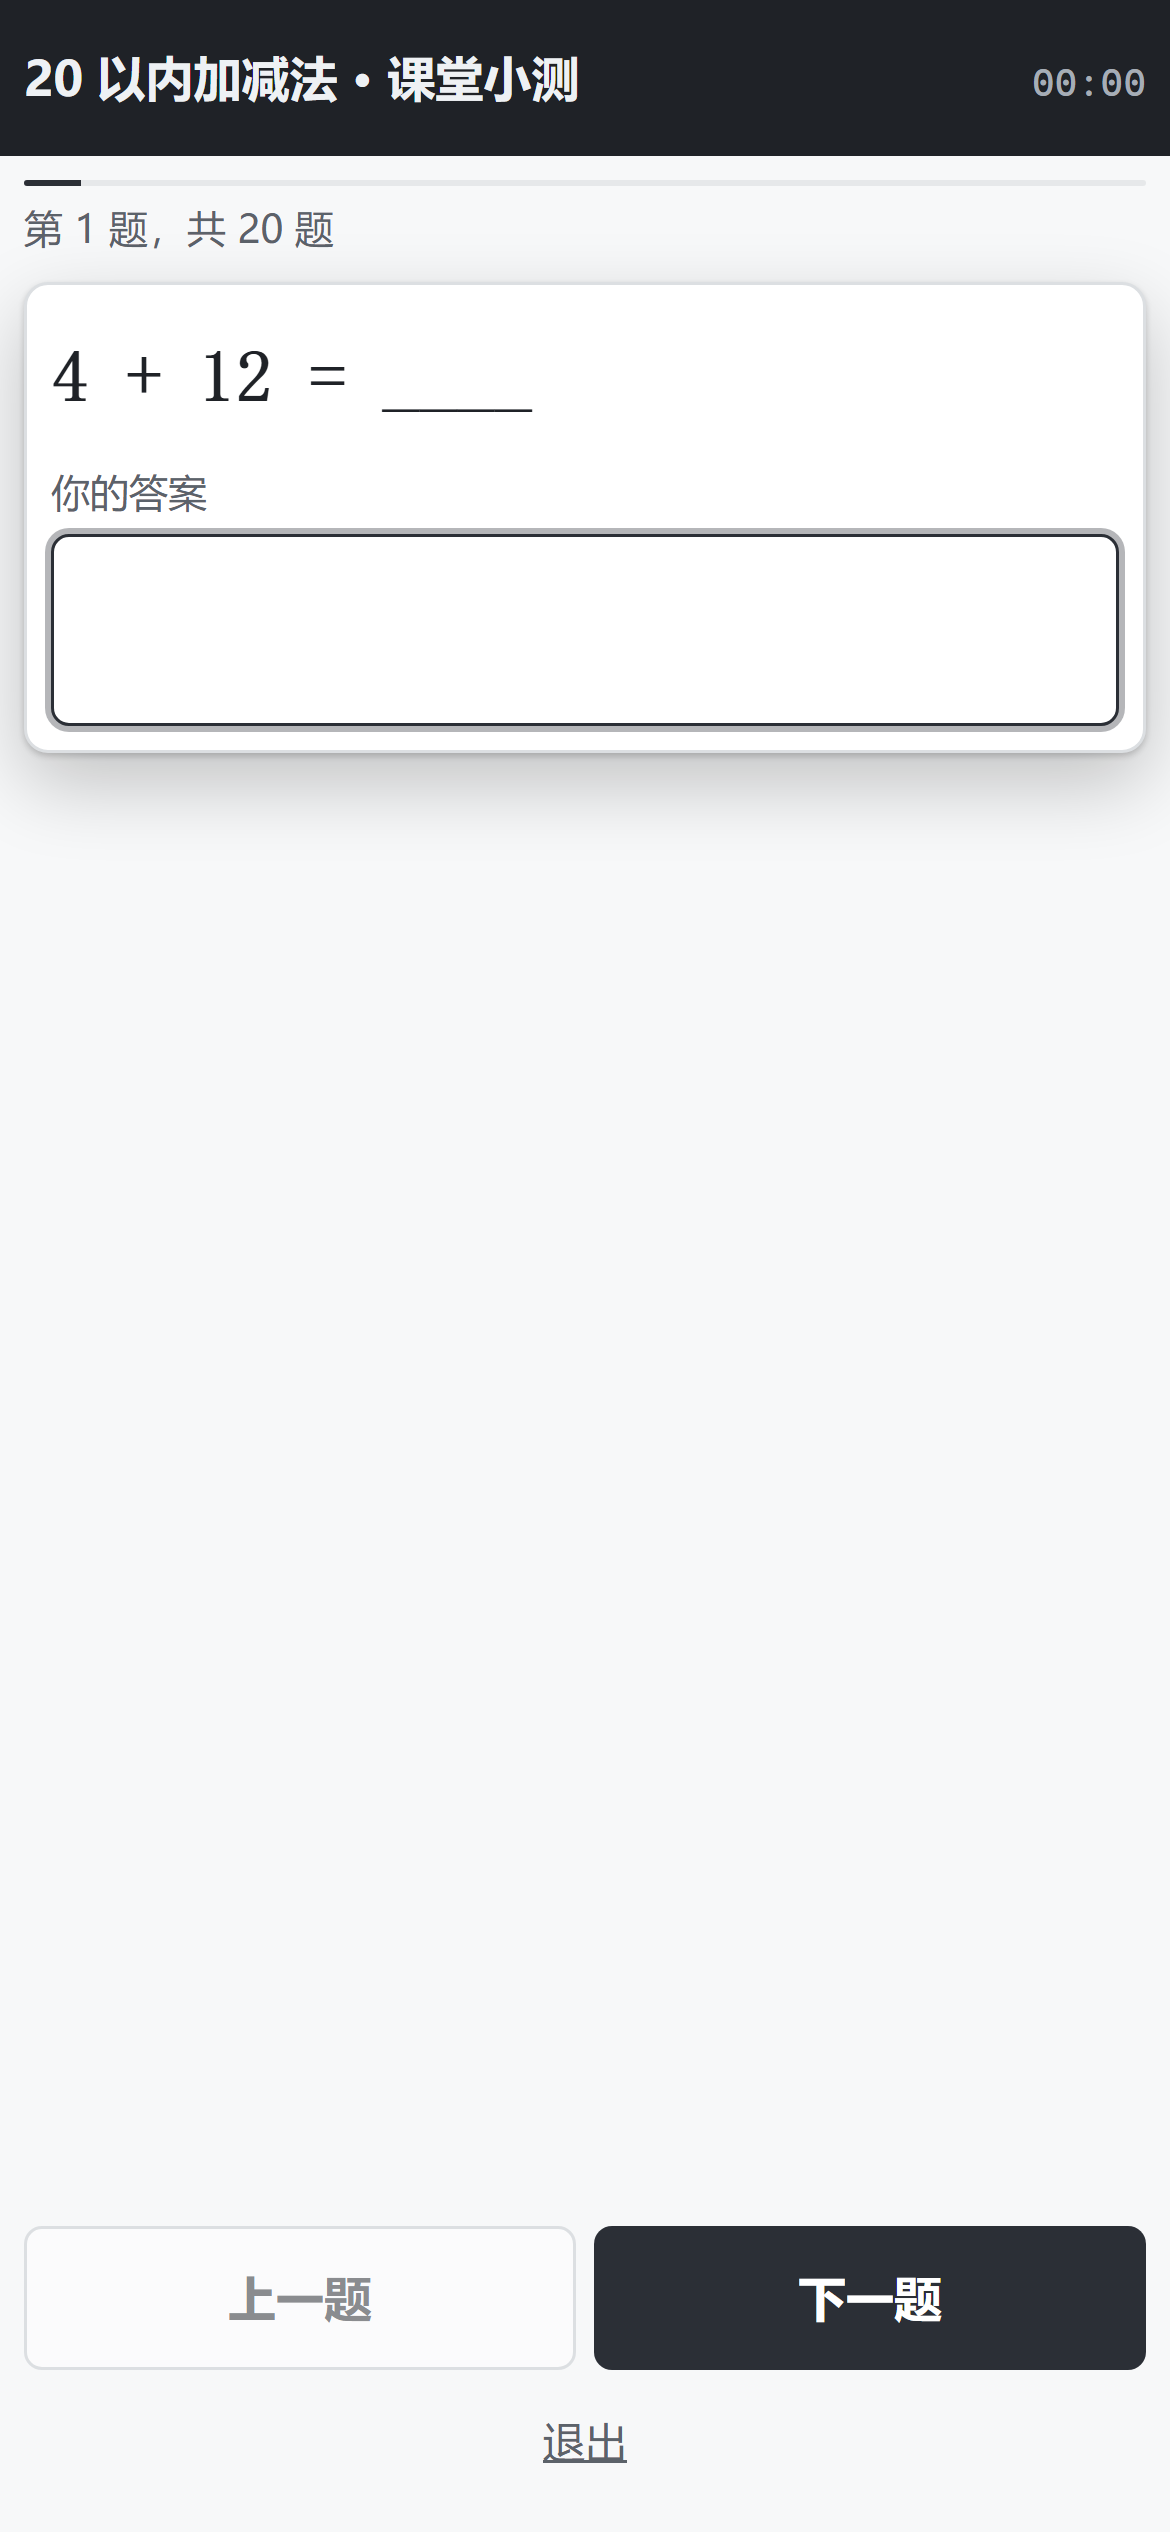
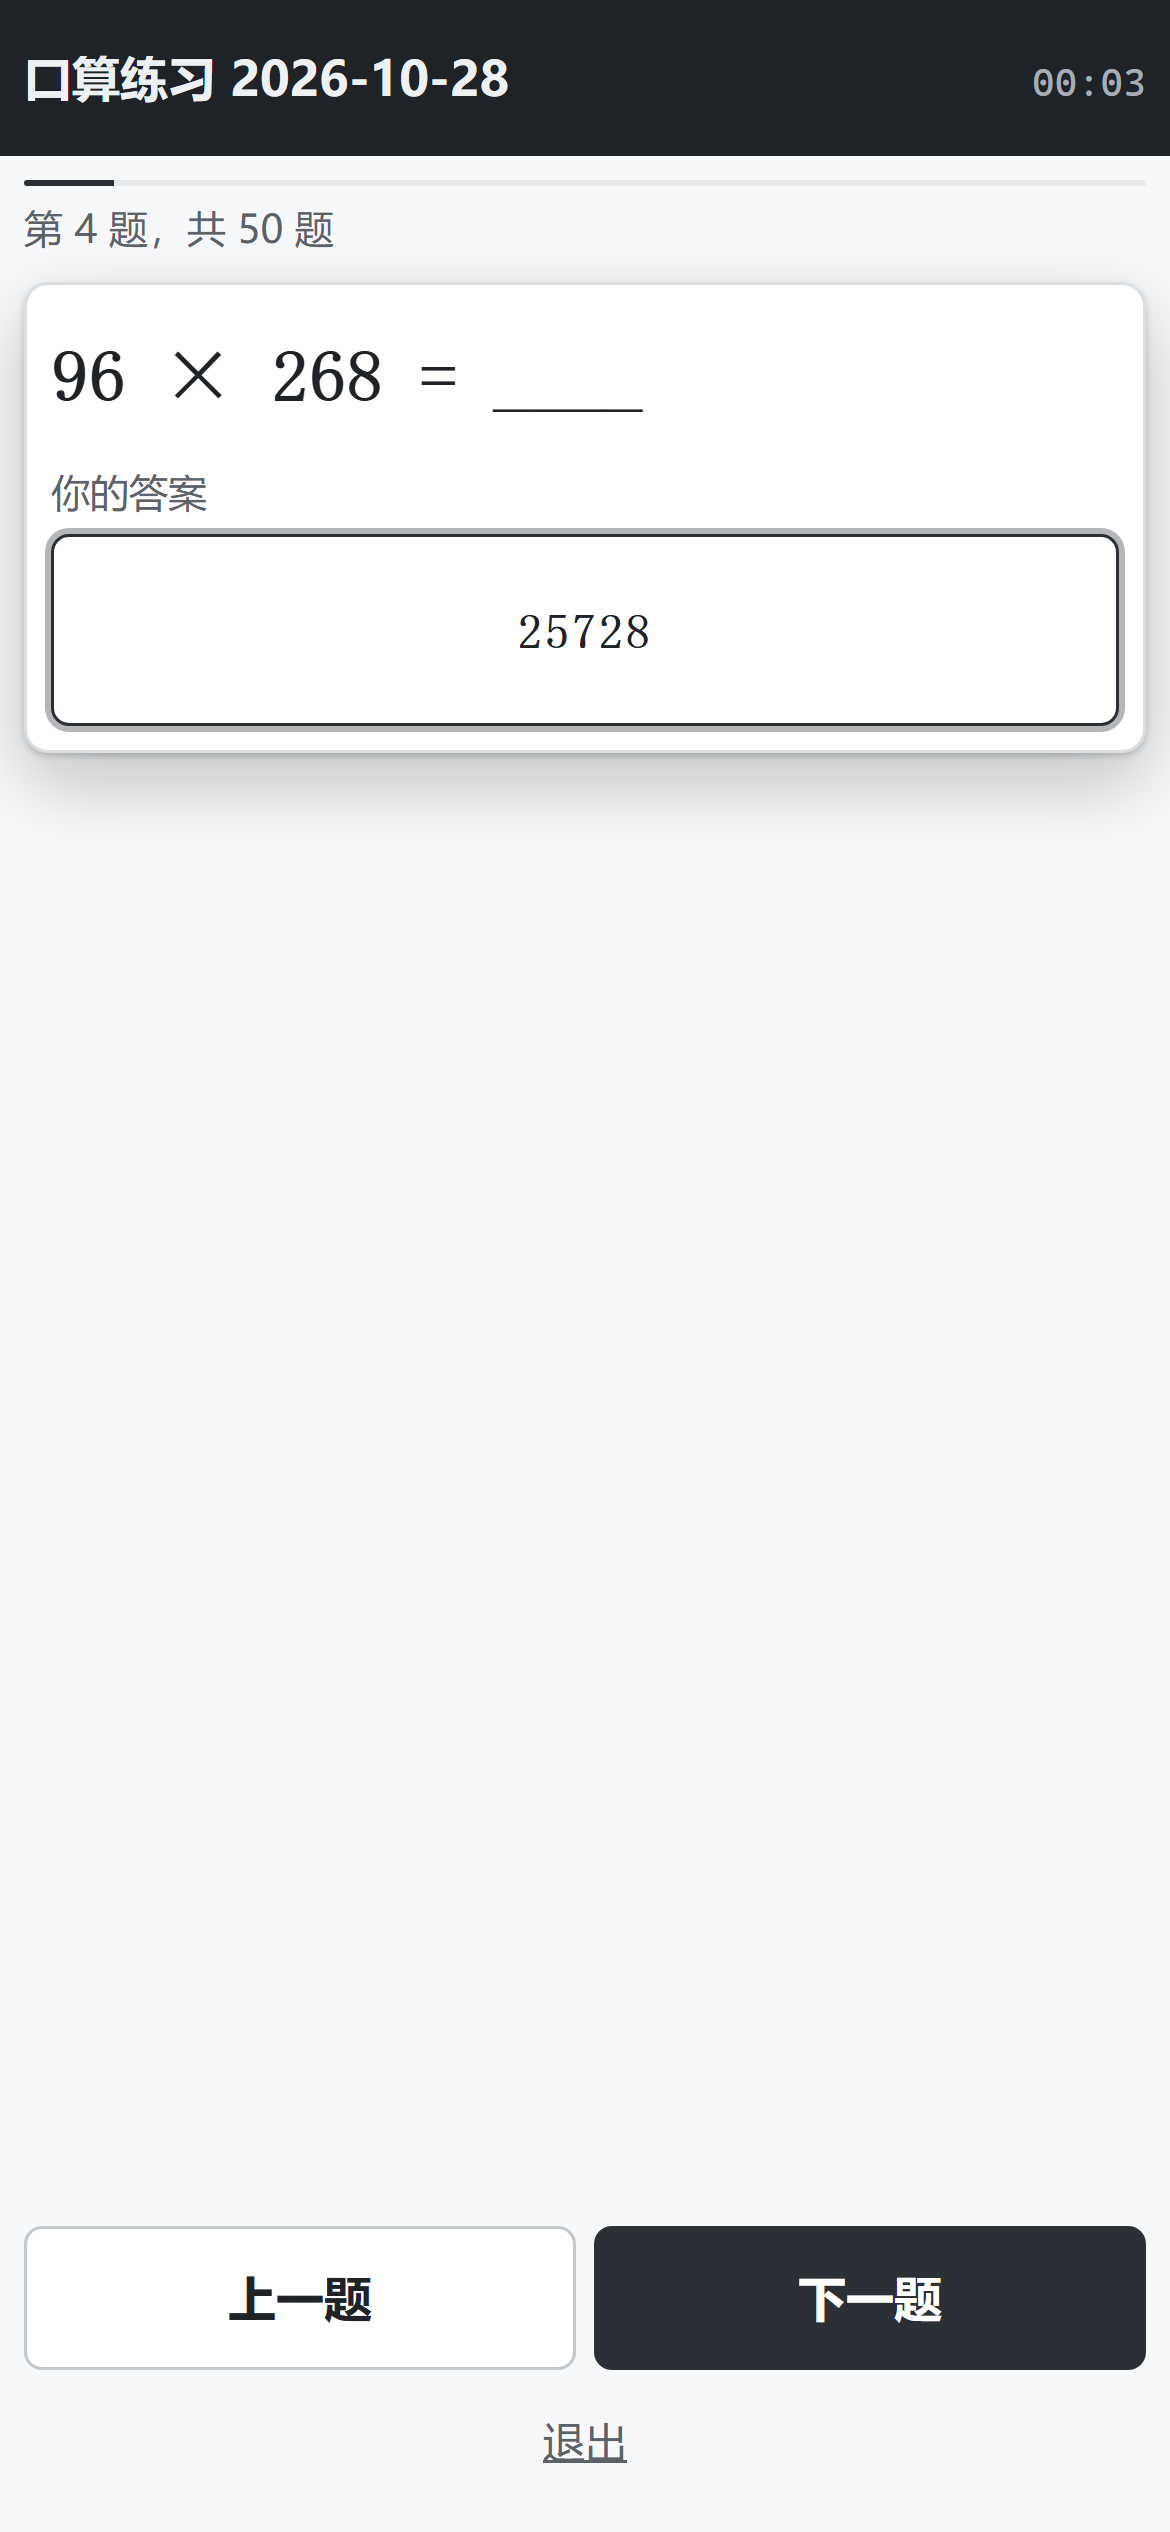
feat(welcome): 欢迎页跟上多页预览，补上学生端两屏实拍
- 展示视图 4 个增到 5 个：新增「多页预览」，用 50 题卷的真实截图讲清
  「按 A4 分页、页间留缝、最后一页画到页底」；排版那一屏换成带页码栏与
  缩放条的新工作台。
- 新开「学生那边」一节：左边三句话，右边两张 390×844 实拍（填姓名学号、
  100 分结果页），等高等宽放进白底圆角手机框；窄屏竖排。
- 导航加「学生」锚点；FAQ 补「卷子长到两三页呢？」。
- 页面门禁：lint 0 FAIL / 0 WARN；inspect（1440/768/390）0 FAIL / 2 WARN
  （三种字体、无视频，与 T-M9-01 同两条，已辩护）。
- 截图全部来自本机运行的真实界面，不是合成图。

diff --git a/frontend/public/welcome.html b/frontend/public/welcome.html
@@ -18,6 +18,7 @@
       <a href="#make">出题</a>
       <a href="#look">排版</a>
       <a href="#hand-out">发卷</a>
+      <a href="#student">学生</a>
       <a href="#mark">批改</a>
     </nav>
   </div>
@@ -47,10 +48,10 @@
   <div class="shell intro-grid">
     <div class="intro-copy">
       <h2 class="serif-title">它不抽题，<br>它排版。</h2>
-      <p class="intro-lead">出题只是第一半。另一半是让这张纸印出来就能用：四栏、行距、字号、页边距，都在屏幕上先排好。</p>
+      <p class="intro-lead">出题只是第一半。另一半是让这张纸印出来就能用：四栏、行距、字号、页边距，都在屏幕上先排好。卷子长到两三页也一样，预览里按 A4 分页，翻到第几页、缩放多少，都看得见。</p>
     </div>
     <figure class="intro-media">
-      <img src="assets/welcome/workbench.png" width="1440" height="1008" alt="老师端卷页：左边是二十道题的改题列表，中间是 A4 卷面预览，右边是排版面板">
+      <img src="assets/welcome/workbench.png" width="1500" height="1042" alt="老师端卷页：左边是五十道题的改题列表，中间是按 A4 分页的卷面预览，顶部有缩放条，右侧是页码栏与排版面板">
     </figure>
   </div>
 </section>
@@ -113,14 +114,16 @@
 <section class="showcase" id="hand-out">
   <div class="shell showcase-grid">
     <div class="showcase-list">
-      <h2 class="serif-title">同一份卷子，<br>四个样子。</h2>
-      <div class="showcase-names" role="tablist" aria-label="卷子的四种形态">
+      <h2 class="serif-title">同一份卷子，<br>五个样子。</h2>
+      <div class="showcase-names" role="tablist" aria-label="卷子的五种形态">
         <button type="button" role="tab" data-view="paper" aria-selected="true">卷面</button>
+        <button type="button" role="tab" data-view="preview" aria-selected="false">多页预览</button>
         <button type="button" role="tab" data-view="code" aria-selected="false">卷号与二维码</button>
         <button type="button" role="tab" data-view="student" aria-selected="false">学生答题</button>
         <button type="button" role="tab" data-view="score" aria-selected="false">成绩</button>
       </div>
       <p class="showcase-note" data-note="paper">打印出来发给学生的那张纸。答案和卷面一起生成，页尾另附答案页。</p>
+      <p class="showcase-note" data-note="preview" hidden>卷子长到好几页时，预览按 A4 一页页排下去，页间留一道缝；最后一页不满也画到页底。上面的页码栏能翻到每一页，缩放 50% 到 200%。</p>
       <p class="showcase-note" data-note="code" hidden>发卷时分配卷号。二维码用的是老师电脑在局域网里的地址，投屏让学生扫。</p>
       <p class="showcase-note" data-note="student" hidden>学生在手机上看到的样子：一道题一屏，填完点下一题，交卷就有分。</p>
       <p class="showcase-note" data-note="score" hidden>谁交了什么，按人和按卷都能查；逐题对错、用时、得分，可以导出成表格。</p>
@@ -128,8 +131,9 @@
 
     <div class="showcase-stage">
       <img class="showcase-img" data-view="paper" src="assets/welcome/sheet.png" width="794" height="739" alt="已经排好的 A4 卷面，二十道两位数以内的加减法">
+      <img class="showcase-img" data-view="preview" src="assets/welcome/preview.png" width="1460" height="1560" alt="多页预览：第一页排到页底，页间留一道灰缝，第二页接着往下排" hidden>
       <img class="showcase-img" data-view="code" src="assets/welcome/qr-card.png" width="260" height="288" alt="发卷页上的卷号 2610-0001 与二维码卡片" hidden>
-      <img class="showcase-img" data-view="student" src="assets/welcome/student-answer.png" width="390" height="844" alt="学生手机上的答题页：一道 45 + 3 = ___，下面是输入框，底部是上一题与下一题" hidden>
+      <img class="showcase-img" data-view="student" src="assets/welcome/student-answer.png" width="390" height="844" alt="学生手机上的答题页：一道 554 × 27 = ___，下面是输入框，底部是上一题与下一题" hidden>
       <img class="showcase-img" data-view="score" src="assets/welcome/attempts.png" width="1440" height="1156" alt="成绩页：学生的姓名学号、卷子、得分、答对题数、用时和提交时间" hidden>
     </div>
   </div>
@@ -149,13 +153,38 @@
       </li>
       <li class="step">
         <p class="step-line">打印发卷。</p>
-        <p class="step-say">直接打印，或者导出 PDF 和 Word 交给打印店。</p>
+        <p class="step-say">直接打印，或者导出 PDF 和 Word 交给打印店。预览里分好的页，打出来就是那几页。</p>
       </li>
       <li class="step">
         <p class="step-line step-last">交卷出分。</p>
         <p class="step-say">学生扫码答题，交卷那一秒分数就在成绩页上了。</p>
       </li>
         </ol>
+  </div>
+</section>
+
+<!-- ============================== 学生那边 ============================== -->
+<section class="student" id="student">
+  <div class="shell student-grid">
+    <div class="student-copy">
+      <h2 class="serif-title">学生那边，<br>打开就能答。</h2>
+      <p class="student-lead">不用注册，也不用装任何东西。手机连上同一个局域网，扫卷子上的二维码，或者输入卷号，填一次姓名和学号，就能一题一屏地答；交卷当场出分，哪题错了、你写了什么，都列在下面。</p>
+      <ul class="student-points">
+        <li><b>不装 App</b>浏览器打开就是答题页，答完即走。</li>
+        <li><b>一题一屏</b>答题框占满一屏，数字键盘直接输，不用眯着眼找空格。</li>
+        <li><b>交卷出分</b>分数、答对几题、逐题对错，学生自己先看到。</li>
+      </ul>
+    </div>
+    <div class="student-phones">
+      <figure class="phone">
+        <img src="assets/welcome/student-start.png" width="1170" height="1700" alt="学生手机上的第一屏：填姓名和学号，下面是开始答题按钮" loading="lazy">
+        <figcaption>填一次姓名和学号，同一台设备下次不用再填。</figcaption>
+      </figure>
+      <figure class="phone">
+        <img src="assets/welcome/student-result.png" width="1170" height="1700" alt="学生手机上的结果页：100 分，答对 8 题共 8 题，下面逐题列出答对与你的答案" loading="lazy">
+        <figcaption>交完卷立刻出分，往下翻能看到每一题的对错。</figcaption>
+      </figure>
+    </div>
   </div>
 </section>
 
@@ -236,10 +265,16 @@ mathgen --host 0.0.0.0</code></pre>
       <p>预览、浏览器打印、导出 PDF 用的是同一份页面，不会出现预览好好的、印出来错位。导出前会先算容量，放不下会直接告诉你把字号调小到多少。</p>
     </div>
   </div>
-  <div class="faq-band">
+  <div class="faq-band faq-band-alt">
     <div class="shell faq-grid">
       <h3>出好的卷子还能改吗？</h3>
       <p>能。单题可以换掉或删掉，版式随时调；已经发出去的卷是一份快照，想改就另存一份草稿再发，学生手里的卷号就不会变。</p>
+    </div>
+  </div>
+  <div class="faq-band">
+    <div class="shell faq-grid">
+      <h3>卷子长到两三页呢？</h3>
+      <p>预览按 A4 一页页排下去，页间留一道缝，最后一页不满也画到页底；顶部页码栏可以翻到任意一页，缩放从 50% 到 200%。预览里是几页，打印和导出就是几页。</p>
     </div>
   </div>
 </section>

diff --git a/frontend/public/welcome.css b/frontend/public/welcome.css
@@ -532,6 +532,75 @@ code {
   gap: clamp(36px, 5vw, 56px);
 }
 
+/* ---------------------------------------------------------------- 学生那边 */
+
+.student { padding-block: var(--section) 0; }
+
+.student-grid {
+  display: grid;
+  grid-template-columns: repeat(12, minmax(0, 1fr));
+  column-gap: var(--gap);
+  align-items: start;
+}
+
+.student-copy { grid-column: 1 / span 5; }
+
+.student-lead {
+  margin: var(--gap) 0 0;
+  max-width: 34ch;
+  color: var(--ink-body);
+}
+
+.student-points {
+  margin: clamp(20px, 3vw, 32px) 0 0;
+  padding: 0;
+  list-style: none;
+  display: grid;
+  gap: 12px;
+  max-width: 34ch;
+  font-size: var(--t1);
+  color: var(--ink-soft);
+}
+
+.student-points li {
+  display: grid;
+  grid-template-columns: 5.5em minmax(0, 1fr);
+  column-gap: 12px;
+  align-items: baseline;
+}
+
+.student-points b {
+  font-weight: 600;
+  color: var(--ink);
+}
+
+.student-phones {
+  grid-column: 7 / span 6;
+  display: grid;
+  grid-template-columns: repeat(2, minmax(0, 1fr));
+  column-gap: var(--gap);
+  align-items: start;
+}
+
+.phone {
+  margin: 0;
+  padding: 8px;
+  background: var(--paper);
+  border-radius: 18px;
+}
+
+.phone img {
+  width: 100%;
+  border-radius: 12px;
+}
+
+.phone figcaption {
+  margin-top: 12px;
+  font-size: var(--t1);
+  line-height: 1.55;
+  color: var(--ink-faint);
+}
+
 /* ---------------------------------------------------------------- 安装 */
 
 .install {
@@ -803,6 +872,11 @@ code {
   .step:nth-child(3) { margin-left: 12vw; }
   .step:nth-child(4) { margin-left: 18vw; }
 
+  .student-grid { display: block; }
+  .student-copy { margin-bottom: clamp(28px, 6vw, 40px); }
+  .student-lead, .student-points { max-width: none; }
+  .student-phones { margin-bottom: 0; }
+
   .install-row { grid-template-columns: 1fr; row-gap: 10px; }
   .install-row dt, .install-row dd { grid-column: 1; }
 
@@ -817,6 +891,16 @@ code {
   .close-media { grid-column: 1 / span 7; margin-top: 24px; }
 
   .foot-line { margin-top: 80px; }
+}
+
+/* 窄屏：两张手机截图竖排，各自看得清 */
+@media (max-width: 560px) {
+  .student-phones {
+    grid-template-columns: minmax(0, 1fr);
+    row-gap: clamp(24px, 6vw, 32px);
+  }
+
+  .phone { max-width: 260px; }
 }
 
 /* 正文行宽（45–75 字） */

diff --git a/docs/05-任务板.md b/docs/05-任务板.md
@@ -458,6 +458,8 @@ export_attempts(rows: Sequence[AttemptSummary], fmt: str) -> tuple[bytes, str, s
 | --- | --- | --- | --- | --- | --- |
 | T-M9-01 | **`/` 变成入口页**：装好之后打开先看到欢迎页，页上两个门（`/teacher` 老师端、`/student` 学生端），四步流程用真实截图讲清楚；纯静态、离线可用，构建时进 `frontend/dist/`，由后端在 `/` 直接返回 | Lead | `frontend/public/welcome.html`, `frontend/public/welcome.css`, `frontend/public/welcome.js`, `frontend/public/assets/welcome/**`, `backend/app/services/static_site.py`, `backend/app/__main__.py`, `backend/tests/api/test_static_hosting.py` | T-M8-07 | **已完成**：① 页面从一次性 `landing/` 移入 `frontend/public/`（Vite 构建自动复制进 `dist/`），删除临时目录，避免两份；② `static_site.py` 新增 `WELCOME_ENTRY = "welcome.html"`，`GET /` 先给它、没有则回落 `index.html`（老产物与 CI 临时 dist 行为不变）；③ `__main__.py` 自动开浏览器改为打开 `/`，横幅新增「入口页」一行；④ 新增判据 `TestWelcomeEntry`（3 条：有 welcome 时 `/` 是它且**不再是** index；`/welcome.html` 可直接访问；不抢 `/teacher`、`/student/*`），全部通过（`Ran 27 tests … OK`）；⑤ 页面门禁：skill 的 `lint` **0 FAIL / 0 WARN**、`inspect`（1440/768/390）**0 FAIL / 2 WARN**（`font-count` 三种字体、`no-footage` 无视频，均已辩护）；真机服务验证 `/` 200 且标题为 `mathgen 老师端`、`/assets/welcome/sheet.png` 200 `image/png` 62816 B |
 
+| T-M9-02 | **欢迎页跟上多页预览，并补上学生端**：新增「多页预览」视图、排版一屏换成带页码栏与缩放条的工作台、新开「学生那边」一节放学生手机两屏实拍、FAQ 补「卷子长到两三页呢？」 | Lead | `frontend/public/welcome.html`, `frontend/public/welcome.css`, `frontend/public/assets/welcome/**` | T-M9-01 | **已完成**：① 截图全部来自本机运行的真实界面（50 题卷 code `2610-0003`：多页预览、工作台、卷面、发卷二维码、学生答题；20 题卷 `2610-0004` 的 100 分答卷结果页），不是合成图；② 视图由 4 个增到 5 个（卷面 / 多页预览 / 卷号与二维码 / 学生答题 / 成绩），`welcome.js` 的 tab 逻辑本来就按 `data-view` 泛化，无需改动；③ 新节 `#student` 用两张 390×844 实拍（`student-start.png` / `student-result.png`，等高裁切）放进白底圆角「手机」框，右侧两栏、≤560px 竖排；④ 导航加「学生」锚点，多出的 FAQ 一条保持深浅带交替；⑤ 页面门禁：`lint` **0 FAIL / 0 WARN**、`inspect`（1440/768/390，`--allow mono,off-centre`）**0 FAIL / 2 WARN**（与 T-M9-01 同两条：三种字体、无视频，均已辩护）；素材总大小从 1.2MB 增到 1.5MB |
+
 ### M10：第二个对外版本（**v1.0.0-rc2**，已完成）
 
 形态与节奏见 `docs/00` **D83**（继续预发布；`rc` 与 `latest` 随版本前移；Release 附 CI 生成的 `SHA256SUMS`；旧 tag 不重切）。

diff --git a/CHANGELOG.md b/CHANGELOG.md
@@ -6,6 +6,10 @@
 ## [未发布]
 
 ### 新增
+- **欢迎页跟上了这一轮的效果，并补上学生端**：入口页新增「多页预览」视图（卷子按 A4 分页、
+  页间留缝、最后一页画到页底的真实截图），排版那一屏换成带页码栏与缩放条的工作台；
+  另外新开一节「学生那边」，用学生手机上的两屏实拍讲清「填姓名学号 → 一题一屏 → 交卷出分」。
+  常见问题补一条「卷子长到两三页呢？」。
 - **卷面预览能翻页了**：以前再长的卷子也只在预览里画成一整条，看不出「打印出来是几页」；
   现在预览按真实分页切成多页，页与页之间留出纸张间隔。分页几何由后端随卷面一起下发
   （`data-usable-first-px` / `data-usable-later-px` / `data-page-margin-px`），和打印通道
